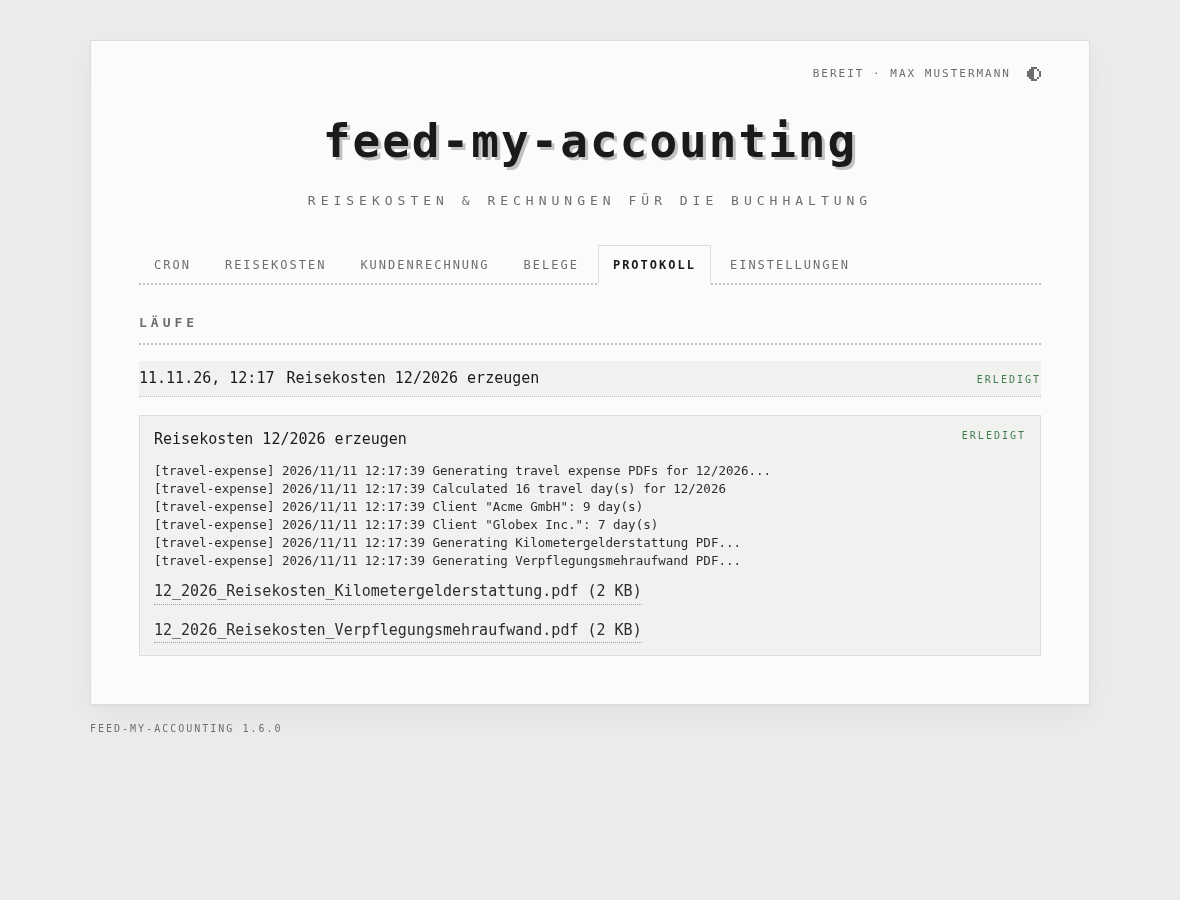
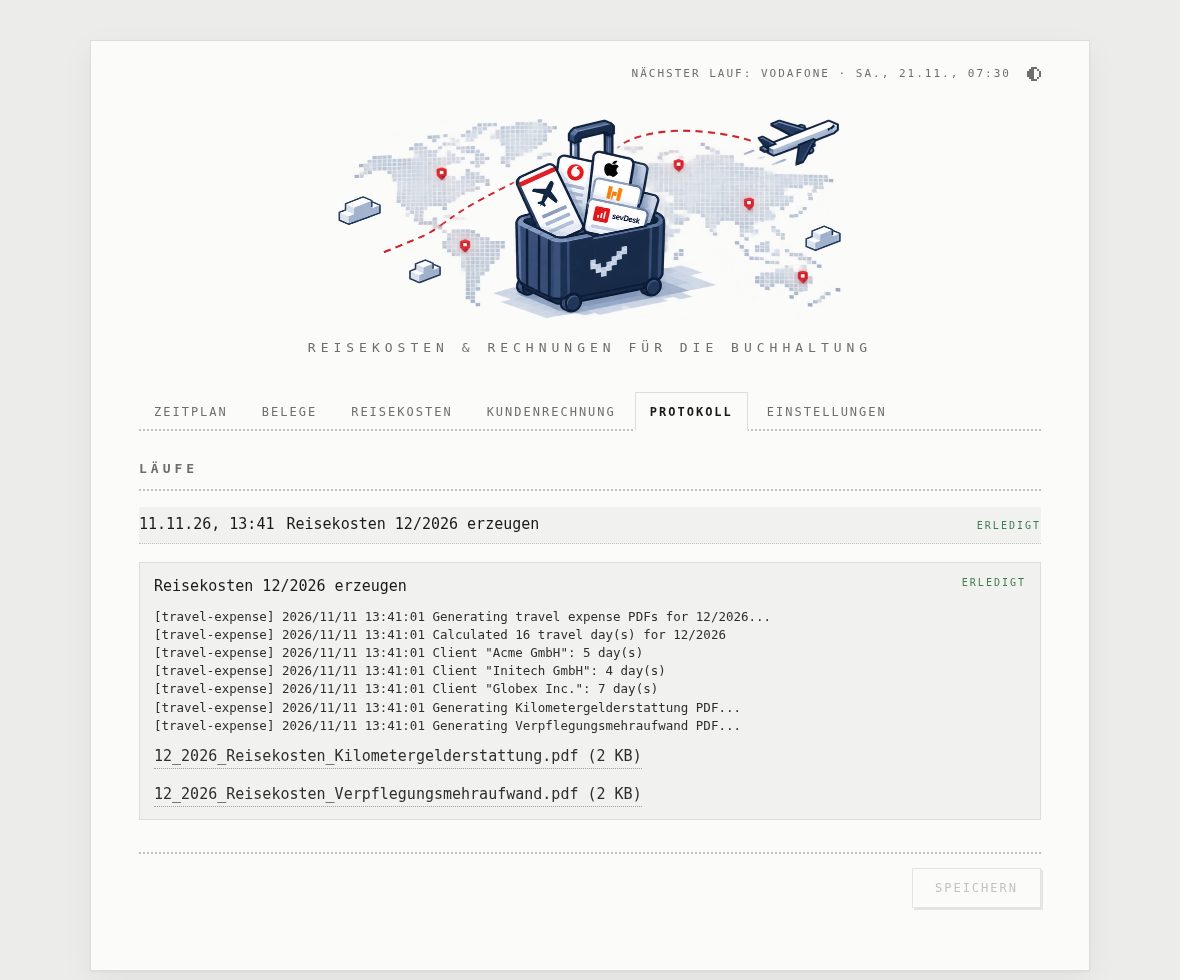
feat: the downloaded Harvest report to save, Zeitplan, new screenshots
A run that downloads the Harvest report from the export mail, by hand or
on schedule, keeps the PDF as one of its files, to save from the page
until the server restarts. Files of runs from before a restart are no
longer listed. The first card is called Zeitplan, the Harvest and
sevDesk logins have a line each, and the README screenshots are new,
with made-up clients only.

Claude-Session: https://claude.ai/code/session_01FXXeyGX9nkbXjdAycGNCsJ

diff --git a/web/app.js b/web/app.js
@@ -518,6 +518,9 @@ function bmfLink() {
 }
 
 const PROVINCES = ['BW', 'BY', 'BE', 'BB', 'HB', 'HH', 'HE', 'MV', 'NI', 'NW', 'RP', 'SL', 'SN', 'ST', 'SH', 'TH'];
+// A new line in a form's grid: what follows starts on the left.
+const BREAK = ['', '', 'break'];
+
 // The settings as the config file has them, each where it is used: per part of the page, its
 // sections with field path, label, type. Only what all of them share is under Einstellungen.
 const PARTS = {
@@ -544,8 +547,11 @@ const PARTS = {
     ['HarvestInvoice.SevDesk.ClientName', 'Kunde in sevDesk'],
     ['HarvestInvoice.SevDesk.ProductName', 'Artikel (Suchbegriff)'], ['HarvestInvoice.SevDesk.ProductNum', 'Artikelnummer'],
     ['HarvestInvoice.SevDesk.ReferenceNum', 'Kundenreferenz (E-Rechnung)'],
+    BREAK,
     ['HarvestInvoice.SevDesk.Username', 'sevDesk-Benutzer'], ['HarvestInvoice.SevDesk.Password', 'sevDesk-Passwort', 'secret', 3],
+    BREAK,
     ['HarvestInvoice.Harvest.Username', 'Harvest-Benutzer'], ['HarvestInvoice.Harvest.Password', 'Harvest-Passwort', 'secret', 2],
+    BREAK,
     ['HarvestInvoice.Filter.Count', 'Mails durchsuchen', 'number', 10],
     ['HarvestInvoice.Filter.From', 'Absender-Domain', 'text', 'harvestapp.com'],
     ['HarvestInvoice.Filter.Subject', 'Betreff', 'text', 'We’ve exported your detailed time report'],
@@ -579,6 +585,7 @@ function setPath(obj, path, value) {
 }
 
 function field(obj, [path, label, type, extra]) {
+  if (type === 'break') return el('div', 'break');
   const value = getPath(obj, path);
   let input;
   if (type === 'bool') {
@@ -677,7 +684,7 @@ function renderSettings() {
       children.push(el('p', 'muted', 'Nur im Heimnetz: Die Oberfläche antwortet nur Geräten mit privater Adresse (192.168.…, 10.…, localhost), allen anderen nicht — auch wenn der Port versehentlich offen ist. Ausgeschaltet antwortet sie jedem, der sie erreicht. Passwort: HTTP Basic Auth, beliebiger Benutzername.'));
     }
     if (part === 'mail') {
-      children.push(el('p', 'muted', `Gespeichert in ${settings.path}; die vorige Fassung liegt daneben als config.yaml.bak. Die übrigen Einstellungen stehen bei ihrem Bereich: Kunden bei den Reisekosten, Harvest und sevDesk bei der Kundenrechnung, Apple und Vodafone bei den Belegen, der Zeitplan unter Cron.`));
+      children.push(el('p', 'muted', `Gespeichert in ${settings.path}; die vorige Fassung liegt daneben als config.yaml.bak. Die übrigen Einstellungen stehen bei ihrem Bereich: Kunden bei den Reisekosten, Harvest und sevDesk bei der Kundenrechnung, Apple und Vodafone bei den Belegen, der Zeitplan unter Zeitplan.`));
     }
     form.replaceChildren(...children);
     form.onsubmit = (e) => e.preventDefault(); // saved with the button at the bottom

diff --git a/web/index.html b/web/index.html
@@ -32,7 +32,7 @@
     </header>
 
     <nav class="tabs" aria-label="Bereiche">
-      <a href="#cron">Cron</a>
+      <a href="#cron">Zeitplan</a>
       <a href="#receipts">Belege</a>
       <a href="#travel">Reisekosten</a>
       <a href="#invoice">Kundenrechnung</a>
@@ -87,7 +87,7 @@
       </form>
 
       <h2>Gesperrte Tage</h2>
-      <p class="muted">Urlaub, Krankheit, Fortbildung: an diesen Tagen wird nicht gereist. Gilt auch für den Cron-Lauf. Änderungen gelten erst mit „Speichern“ unten.</p>
+      <p class="muted">Urlaub, Krankheit, Fortbildung: an diesen Tagen wird nicht gereist. Gilt auch für den geplanten Lauf. Änderungen gelten erst mit „Speichern“ unten.</p>
       <ul id="blocked" class="rows"></ul>
       <form id="blocked-form" class="inline-form">
         <input type="date" id="b-from" aria-label="von" required>
@@ -122,7 +122,7 @@
       <div class="console" data-console="invoice" hidden></div>
 
       <h2>Aus der Harvest-Mail</h2>
-      <p class="muted">Wie der Cron-Lauf: die neueste Export-Mail suchen, den Bericht bei Harvest laden und den Entwurf anlegen — nur für den laufenden Monat, und nie doppelt.</p>
+      <p class="muted">Wie der geplante Lauf: die neueste Export-Mail suchen, den Bericht bei Harvest laden und den Entwurf anlegen — nur für den laufenden Monat, und nie doppelt. Den geladenen Bericht gibt es danach hier und im Protokoll zum Herunterladen, bis zum Neustart des Servers.</p>
       <div class="actions"><button type="button" data-run="harvest">Aus Mail anlegen</button></div>
       <div class="console" data-console="harvest" hidden></div>
 

diff --git a/web/style.css b/web/style.css
@@ -294,3 +294,4 @@ input.missing { border-color: var(--bad); }
   :root:not([data-theme="light"]) .masthead img.logo { background: #ececeb; border-radius: 10px; padding: 8px 16px; }
 }
 :root[data-theme="dark"] .masthead img.logo { background: #ececeb; border-radius: 10px; padding: 8px 16px; }
+.grid .break { grid-column: 1 / -1; height: 0; }

diff --git a/harvest-invoice/harvest.go b/harvest-invoice/harvest.go
@@ -8,6 +8,7 @@ import (
 	"log"
 	"os"
 	"path/filepath"
+	"strings"
 	"time"
 
 	"feed-my-accounting/browser"
@@ -48,6 +49,14 @@ type FilterConfig struct {
 // Run fetches Harvest report emails, downloads the PDF, parses hours and period,
 // and creates a sevDesk invoice via browser automation.
 func Run(cfg Config) error {
+	_, err := RunReport(cfg)
+	return err
+}
+
+// RunReport is Run, handing back the report it worked with — with the downloaded PDF, once
+// there is one, even if the invoice then fails: the web interface offers it for download. Nil
+// if no report was found, or one was skipped before downloading.
+func RunReport(cfg Config) (*ReportData, error) {
 	logger.Println("Fetching Harvest report emails...")
 	messages, err := email.FetchHTMLEmails(cfg.Mail, email.IMAPFilter{
 		Count:      cfg.Filter.Count,
@@ -55,12 +64,12 @@ func Run(cfg Config) error {
 		FromDomain: cfg.Filter.From,
 	})
 	if err != nil {
-		return fmt.Errorf("fetching emails: %w", err)
+		return nil, fmt.Errorf("fetching emails: %w", err)
 	}
 
 	if len(messages) == 0 {
 		logger.Println("No Harvest report emails found")
-		return nil
+		return nil, nil
 	}
 
 	// Find the most recent export email (skip password change etc.)
@@ -78,7 +87,7 @@ func Run(cfg Config) error {
 	}
 	if report == nil {
 		logger.Println("No Harvest export emails found (checked all matches)")
-		return nil
+		return nil, nil
 	}
 
 	// Use fixed client name from config if set, otherwise use the one from the email
@@ -98,7 +107,7 @@ func Run(cfg Config) error {
 		if report.PeriodFrom.Year() != now.Year() || report.PeriodFrom.Month() != now.Month() {
 			logger.Printf("Skipping: report period %s is not current month (%s)",
 				report.PeriodFrom.Format("01/2006"), now.Format("01/2006"))
-			return nil
+			return nil, nil
 		}
 	}
 
@@ -109,20 +118,20 @@ func Run(cfg Config) error {
 	// Guard: check if sevDesk already has an invoice for this client+period
 	exists, sevdeskLoggedIn := alreadyInvoiced(ctx, cfg, report)
 	if exists {
-		return nil
+		return nil, nil
 	}
 
 	logger.Println("Logging into Harvest to download report PDF...")
 	pdfData, err := downloadExportPDF(ctx, cfg.Harvest, report.ExportURL)
 	if err != nil {
-		return fmt.Errorf("downloading PDF: %w", err)
+		return nil, fmt.Errorf("downloading PDF: %w", err)
 	}
 	report.PDFData = pdfData
 	logger.Printf("Downloaded PDF: %d bytes", len(pdfData))
 
 	totalHours, err := ParsePDFHours(pdfData)
 	if err != nil {
-		return fmt.Errorf("parsing PDF hours: %w", err)
+		return report, fmt.Errorf("parsing PDF hours: %w", err)
 	}
 	report.TotalHours = totalHours
 
@@ -131,10 +140,24 @@ func Run(cfg Config) error {
 	// Create sevDesk invoice via browser (reuse the same browser context)
 	logger.Println("Creating sevDesk invoice...")
 	if err := createInvoice(ctx, cfg.SevDesk, report, sevdeskLoggedIn); err != nil {
-		return fmt.Errorf("creating sevDesk invoice: %w", err)
+		return report, fmt.Errorf("creating sevDesk invoice: %w", err)
 	}
 
-	return nil
+	return report, nil
+}
+
+// FileName is the report PDF's name for saving it: "Harvest_2026-11_Acme_GmbH.pdf".
+func (r *ReportData) FileName() string {
+	name := strings.Map(func(c rune) rune {
+		if c == ' ' || c == '/' || c == '\\' || c == ':' {
+			return '_'
+		}
+		return c
+	}, strings.TrimSpace(r.ClientName))
+	if name != "" {
+		name = "_" + name
+	}
+	return fmt.Sprintf("Harvest_%s%s.pdf", r.PeriodFrom.Format("2006-01"), name)
 }
 
 // ErrAlreadyInvoiced is a report sevDesk already has an invoice for: same client, a Rechnungsdatum

diff --git a/schedule.go b/schedule.go
@@ -2,6 +2,8 @@ package main
 
 import (
 	"fmt"
+
+	harvest "feed-my-accounting/harvest-invoice"
 	"log"
 	"strconv"
 	"strings"
@@ -115,17 +117,32 @@ func (c *cronSpec) next(t time.Time) time.Time {
 // current month.
 type scheduledJob struct {
 	title string
-	run   func(*Config) error
+	run   func(*Config) ([]File, error)
 }
 
 var scheduledJobs = map[string]scheduledJob{
-	"travel-expense": {"Reisekosten senden (laufender Monat)", func(cfg *Config) error {
+	"travel-expense": {"Reisekosten senden (laufender Monat)", noFiles(func(cfg *Config) error {
 		now := time.Now()
 		return runTravelExpense(cfg, now.Year(), now.Month())
-	}},
-	"apple-invoice":    {"Apple-Rechnungen abholen", runAppleInvoice},
-	"vodafone-invoice": {"Vodafone-Rechnungen abholen", runVodafoneInvoice},
-	"harvest-invoice":  {"Kundenrechnung aus Harvest-Mail", runHarvestInvoice},
+	})},
+	"apple-invoice":    {"Apple-Rechnungen abholen", noFiles(runAppleInvoice)},
+	"vodafone-invoice": {"Vodafone-Rechnungen abholen", noFiles(runVodafoneInvoice)},
+	"harvest-invoice":  {"Kundenrechnung aus Harvest-Mail", harvestWithReport},
+}
+
+// noFiles is a module run that makes no files to download.
+func noFiles(run func(*Config) error) func(*Config) ([]File, error) {
+	return func(cfg *Config) ([]File, error) { return nil, run(cfg) }
+}
+
+// harvestWithReport runs harvest-invoice and keeps the report PDF it downloaded, to be saved
+// from the web interface — on iCloud Drive, say.
+func harvestWithReport(cfg *Config) ([]File, error) {
+	report, err := harvest.RunReport(harvestConfig(cfg))
+	if report == nil || len(report.PDFData) == 0 {
+		return nil, err
+	}
+	return []File{{Name: report.FileName(), Size: len(report.PDFData), data: report.PDFData}}, err
 }
 
 // nextRun is the schedule's next run after now: its job and when; nil if nothing is scheduled.
@@ -184,7 +201,7 @@ func (s *server) scheduler() {
 				delete(pending, job)
 				continue
 			}
-			if _, err := s.jobs.Start(job, sj.title+" · Cron", func() ([]File, error) { return nil, sj.run(cfg) }); err == nil {
+			if _, err := s.jobs.Start(job, sj.title+" · Zeitplan", func() ([]File, error) { return sj.run(cfg) }); err == nil {
 				delete(pending, job)
 			}
 		}

diff --git a/server.go b/server.go
@@ -64,9 +64,9 @@ func (s *server) handler() http.Handler {
 	mux.HandleFunc("POST /api/travel/send", s.travelRun(true))
 	mux.HandleFunc("PUT /api/travel/blocked", s.saveBlocked)
 	mux.HandleFunc("PUT /api/travel/assignments", s.saveAssignments)
-	mux.HandleFunc("POST /api/apple/run", s.simpleRun("apple-invoice", "Apple-Rechnungen abholen", runAppleInvoice))
-	mux.HandleFunc("POST /api/vodafone/run", s.simpleRun("vodafone-invoice", "Vodafone-Rechnungen abholen", runVodafoneInvoice))
-	mux.HandleFunc("POST /api/harvest/run", s.simpleRun("harvest-invoice", "Kundenrechnung aus Harvest-Mail", runHarvestInvoice))
+	mux.HandleFunc("POST /api/apple/run", s.simpleRun("apple-invoice", "Apple-Rechnungen abholen", noFiles(runAppleInvoice)))
+	mux.HandleFunc("POST /api/vodafone/run", s.simpleRun("vodafone-invoice", "Vodafone-Rechnungen abholen", noFiles(runVodafoneInvoice)))
+	mux.HandleFunc("POST /api/harvest/run", s.simpleRun("harvest-invoice", "Kundenrechnung aus Harvest-Mail", harvestWithReport))
 	mux.HandleFunc("POST /api/harvest/upload", s.harvestUpload)
 	mux.HandleFunc("POST /api/harvest/draft", s.harvestDraft)
 	mux.HandleFunc("GET /api/jobs", s.listJobs)
@@ -365,14 +365,14 @@ func (s *server) saveAssignments(w http.ResponseWriter, r *http.Request) {
 // ---------------------------------------------------------------------------
 
 // simpleRun runs a module as the command line does, with the configuration as it is.
-func (s *server) simpleRun(kind, title string, run func(*Config) error) http.HandlerFunc {
+func (s *server) simpleRun(kind, title string, run func(*Config) ([]File, error)) http.HandlerFunc {
 	return func(w http.ResponseWriter, r *http.Request) {
 		cfg, err := s.config()
 		if err != nil {
 			fail(w, http.StatusInternalServerError, err)
 			return
 		}
-		s.start(w, kind, title, func() ([]File, error) { return nil, run(cfg) })
+		s.start(w, kind, title, func() ([]File, error) { return run(cfg) })
 	}
 }
 

diff --git a/harvest-invoice/parser_test.go b/harvest-invoice/parser_test.go
@@ -143,3 +143,13 @@ func TestParseFloat_Invalid(t *testing.T) {
 		t.Error("parseFloat(\"abc\") expected error")
 	}
 }
+
+func TestReportFileName(t *testing.T) {
+	r := &ReportData{ClientName: "Acme GmbH / Süd", PeriodFrom: time.Date(2026, 11, 1, 0, 0, 0, 0, time.UTC)}
+	if got := r.FileName(); got != "Harvest_2026-11_Acme_GmbH___Süd.pdf" {
+		t.Errorf("FileName() = %q", got)
+	}
+	if got := (&ReportData{PeriodFrom: time.Date(2026, 11, 1, 0, 0, 0, 0, time.UTC)}).FileName(); got != "Harvest_2026-11.pdf" {
+		t.Errorf("without a client: %q", got)
+	}
+}

diff --git a/jobs.go b/jobs.go
@@ -59,6 +59,7 @@ func NewJobs(path string) *Jobs {
 			if job.Status == "running" { // the server stopped while it ran
 				job.Status, job.Error = "failed", "interrupted"
 			}
+			job.Files = nil // kept in memory only: gone with the restart
 		}
 	}
 	return j

diff --git a/README.md b/README.md
@@ -125,7 +125,7 @@ feed-my-accounting serve          # http://<host>:8595
 </p>
 
 <p align="center">
-  <img src="docs/cron.png" alt="The Cron card: four jobs with their cron expressions, next runs and a run-now button" width="380">
+  <img src="docs/cron.png" alt="The Zeitplan card: four jobs with their cron expressions and next runs" width="380">
   <img src="docs/log.png" alt="The Protokoll card: a run's live output and the two PDFs it made" width="380">
 </p>
 
@@ -137,10 +137,10 @@ Every setting is on the card where it is used. Nothing saves by itself: one red 
 
 | Card | What it does |
 |------|--------------|
-| **Cron** | The schedule: each job with its cron expression (`minute hour day month weekday`, as in crontab), its next runs, its last result, and a switch to turn it off. Runs by hand start on their own cards. Replaces the crontab entries — keep only one of the two, or jobs run twice. |
+| **Zeitplan** | The schedule: each job with its cron expression (`minute hour day month weekday`, as in crontab), its next runs, its last result, and a switch to turn it off. Runs by hand start on their own cards. Replaces the crontab entries — keep only one of the two, or jobs run twice. |
 | **Belege** | Apple and Vodafone invoices on demand, each with its settings: the Apple mail filter, the Vodafone login. |
 | **Reisekosten** | A month calendar: which client gets which day, day trips and overnight trips, holidays, blocked days, and each day's meal allowance and mileage, with the month's totals. *Zuordnungen* gives date ranges to a client explicitly; *Gesperrte Tage* blocks vacation and the like. Both are edited as drafts — add, *bearbeiten*, *entfernen* — and saved with the *Speichern* at the bottom; until then nothing changes. *PDFs ansehen* generates the two PDFs to look at; *Per Mail senden* sends them to the address under Einstellungen › E-Mail. Below: the clients — country, state, distance, meal rates — the name on the PDFs and the Christmas week. |
-| **Kundenrechnung** | Drop the Harvest PDF report in: hours and Leistungszeitraum are read and shown for checking, then *Entwurf in sevDesk anlegen* creates the draft invoice — with the same duplicate check as the cron run. *Aus Mail anlegen* runs harvest-invoice as before. Below: the sevDesk client, article and reference, the Harvest and sevDesk logins, and the mail filter. |
+| **Kundenrechnung** | Drop the Harvest PDF report in: hours and Leistungszeitraum are read and shown for checking, then *Entwurf in sevDesk anlegen* creates the draft invoice — with the same duplicate check as the cron run. *Aus Mail anlegen* runs harvest-invoice as before, and offers the report PDF it downloaded from Harvest for saving — on iCloud Drive, say — as the scheduled run does in the Protokoll. Below: the sevDesk client, article and reference, the Harvest and sevDesk logins, and the mail filter. |
 | **Protokoll** | Every run, its live output, and the PDFs it made to download. The history is kept in `feed-my-accounting-jobs.json` next to the config; the PDFs until the server restarts. |
 | **Einstellungen** | What all of them share: the mail account, and the web interface's address and password. |
 

diff --git a/CHANGELOG.md b/CHANGELOG.md
@@ -16,6 +16,9 @@ and this project adheres to [Semantic Versioning](https://semver.org/spec/v2.0.0
 
 - travel-expense: clients outside Europe never take part in the equal distribution — only their assigned days count. Clients in Europe still do.
 
+- Web interface: the Harvest report PDF a run downloads from Harvest — by hand or on schedule — is offered for download with the run, until the server restarts. `harvest.RunReport` hands it back.
+- Web interface: the first card is called Zeitplan; the Harvest and sevDesk logins have a line each.
+
 ### Fixed
 
 - travel-expense abroad: a day trip of more than 8 hours takes the client's travel day rate when it has no day trip rate, and the other way round — the BMF's table has one rate for both. Only with neither does the inland rate apply; the web interface marks such days red, names the missing rate under the totals and frames the empty field.
